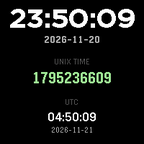
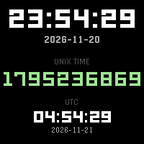
Switch numbers to Leco tabular fonts

Changed region(s): [[0.0, 0.5, 1.0, 0.6111], [0.0556, 0.0556, 0.9444, 0.1944], [0.2222, 0.75, 0.7778, 0.8611]]

diff --git a/src/c/main.c b/src/c/main.c
@@ -69,19 +69,19 @@ static void window_load(Window *window) {
   int w = bounds.size.w;
 
   s_local_time = text_layer_new(GRect(0, LOCAL_TIME_Y, w, 48),
-                                FONT_KEY_BITHAM_42_BOLD, GColorWhite);
+                                FONT_KEY_LECO_42_NUMBERS, GColorWhite);
   s_local_date = text_layer_new(GRect(0, LOCAL_DATE_Y, w, 22),
                                 FONT_KEY_GOTHIC_18_BOLD, GColorLightGray);
   s_epoch_label = text_layer_new(GRect(0, EPOCH_LABEL_Y, w, 16),
                                  FONT_KEY_GOTHIC_14, GColorDarkGray);
   text_layer_set_text(s_epoch_label, "UNIX TIME");
-  s_epoch = text_layer_new(GRect(0, EPOCH_Y, w, 34),
-                           FONT_KEY_GOTHIC_28_BOLD, GColorBrightGreen);
+  s_epoch = text_layer_new(GRect(0, EPOCH_Y, w, 36),
+                           FONT_KEY_LECO_32_BOLD_NUMBERS, GColorBrightGreen);
   s_utc_label = text_layer_new(GRect(0, UTC_LABEL_Y, w, 16),
                                FONT_KEY_GOTHIC_14, GColorDarkGray);
   text_layer_set_text(s_utc_label, "UTC");
-  s_utc_time = text_layer_new(GRect(0, UTC_TIME_Y, w, 28),
-                              FONT_KEY_GOTHIC_24_BOLD, GColorWhite);
+  s_utc_time = text_layer_new(GRect(0, UTC_TIME_Y, w, 30),
+                              FONT_KEY_LECO_26_BOLD_NUMBERS_AM_PM, GColorWhite);
   s_utc_date = text_layer_new(GRect(0, UTC_DATE_Y, w, 18),
                               FONT_KEY_GOTHIC_14, GColorLightGray);
 
